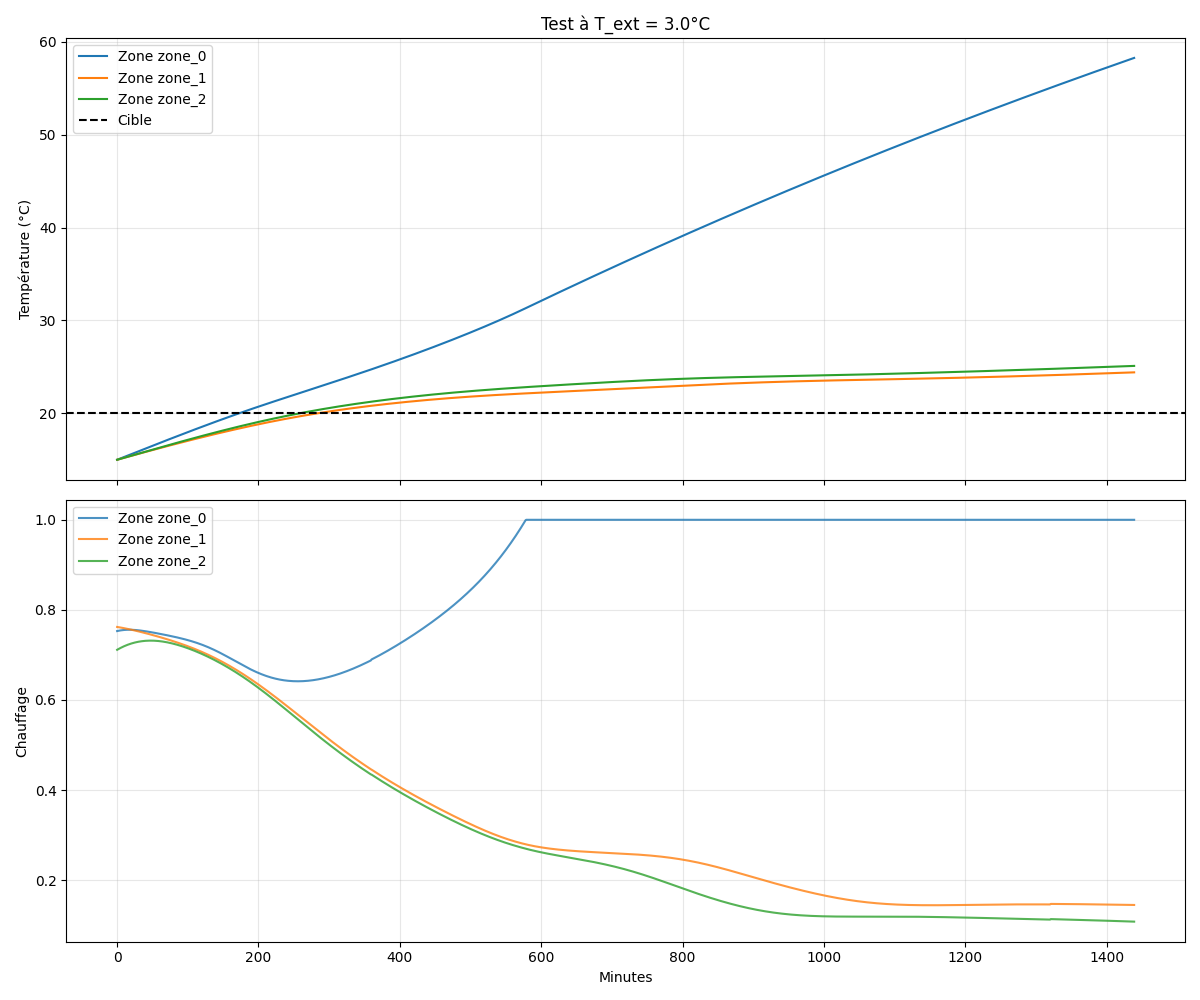
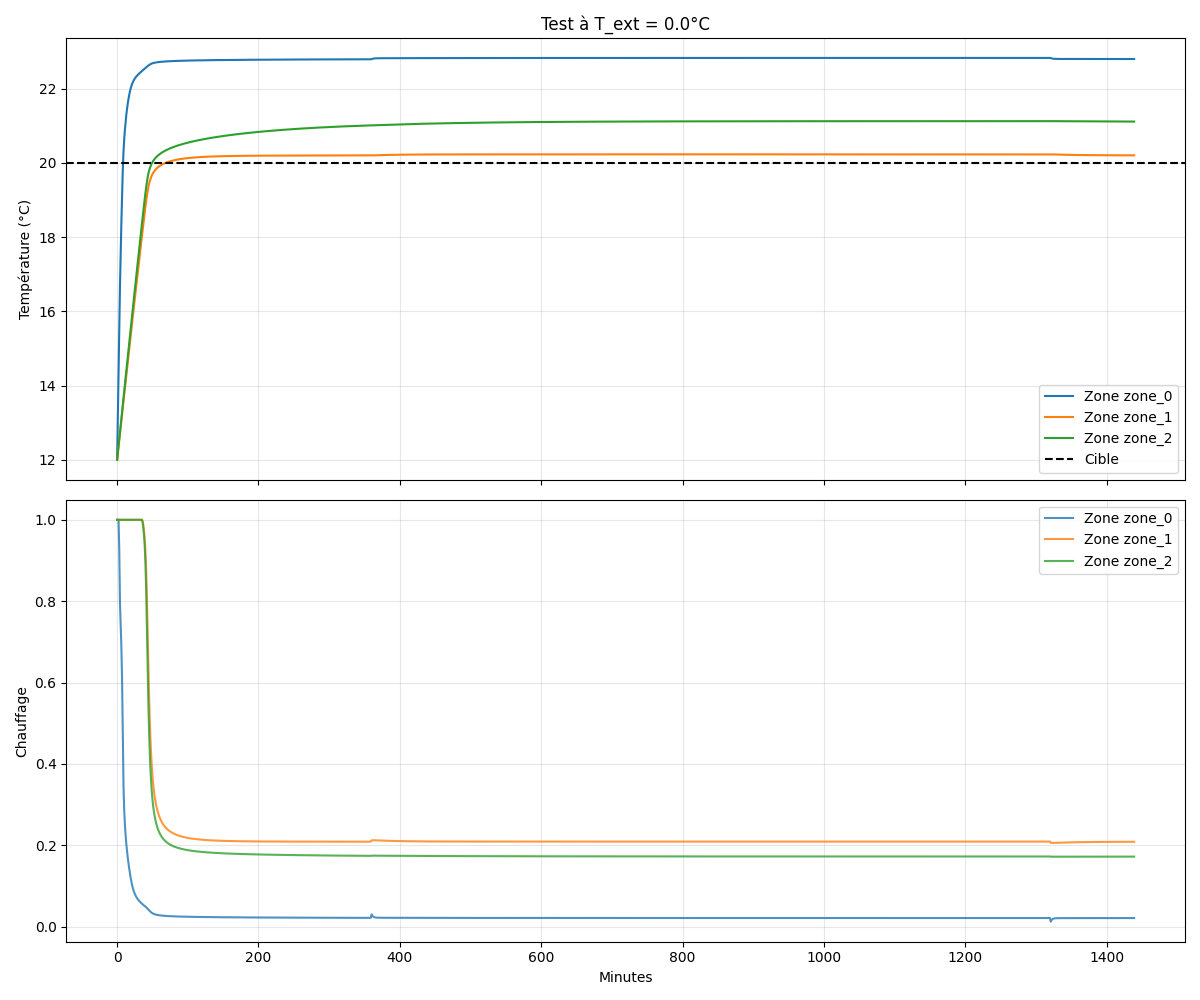
save before cc

diff --git a/config.py b/config.py
@@ -2,7 +2,7 @@
 TARGET_TEMP = 20.0
 DT = 60           # Pas de temps (secondes)
 MAX_STEPS = 2880  # Durée épisode (mn)
-TRAIN_T_EXT = 3.0 # Température extérieure par défaut
+TRAIN_T_EXT = 0.0 # Température extérieure par défaut
 
 # 2. PHYSIQUE DU BÂTIMENT (Partagé Train/Test)
 BUILDING_CONFIG = {
@@ -10,12 +10,12 @@ BUILDING_CONFIG = {
     "expo_ext": [0.0, 1.0, 1.0],
     "t_ext_offset": [0.0, -2.0, 3.0], 
     ####
-    "start_temp": 15.0, # Température initiale des zones
+    "start_temp": 12.0, # Température initiale des zones
     
     # Isolation & Inertie
     "R_val": 0.05,       
-    "C_int": 5e5,        
-    "C_ext": 3e6,     
+    "C_int": 1e5,        
+    "C_ext": 5e5,     
     "R_inter": 0.1,      
     
     "max_power": 2000,
@@ -25,6 +25,6 @@ BUILDING_CONFIG = {
 
 # 3. RÉGLAGES DE LA RÉCOMPENSE
 REWARD_CONFIG = {
-    "alpha": 10.0,       # Priorité absolue au confort
-    "beta": 1.0          # Coût de l'énergie
+    "alpha": 1.0,       # Priorité absolue au confort
+    "beta": 2.0          # Coût de l'énergie
 }

diff --git a/main_visualisation.py b/main_visualisation.py
@@ -2,7 +2,7 @@ import os
 import pandas as pd
 import matplotlib.pyplot as plt
 
-FILE_TO_PLOT = "results/data_PPO_v1.csv"
+FILE_TO_PLOT = "results/data_PPO_Thermal_v1.csv"
 df = pd.read_csv(FILE_TO_PLOT)
 
 fig, (ax1, ax2) = plt.subplots(2, 1, figsize=(10, 8), sharex=True)

diff --git a/simulation_PPO_v1.py b/simulation_PPO_v1.py
@@ -9,7 +9,7 @@ import config as cfg
 
 config = {
     "model_name": "PPO_v1",
-    "total_timesteps": 5e5,
+    "total_timesteps": 1e6,
     #"time_steps_eval": 2880
 }
 
